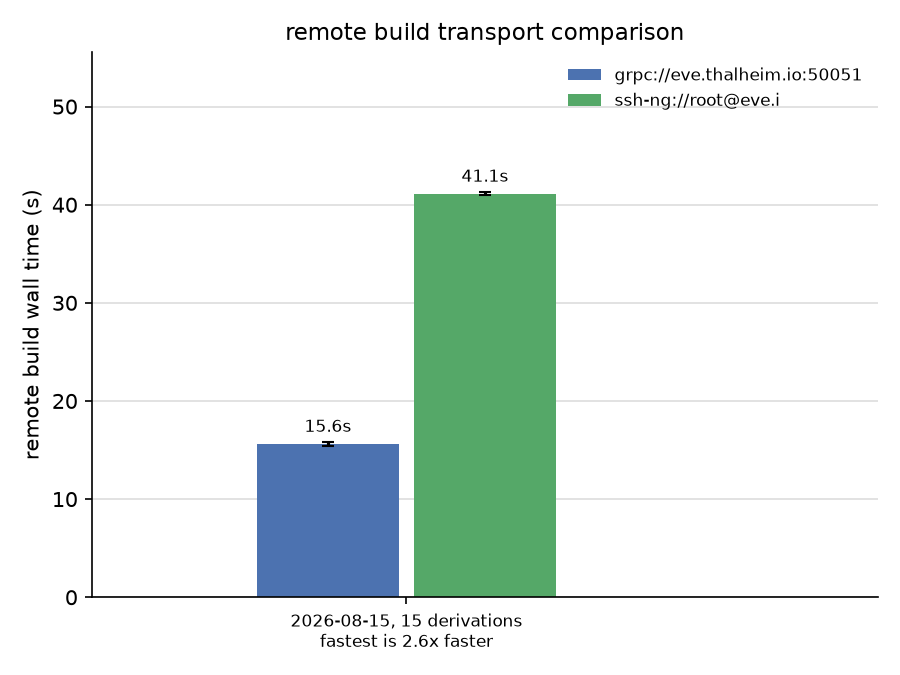
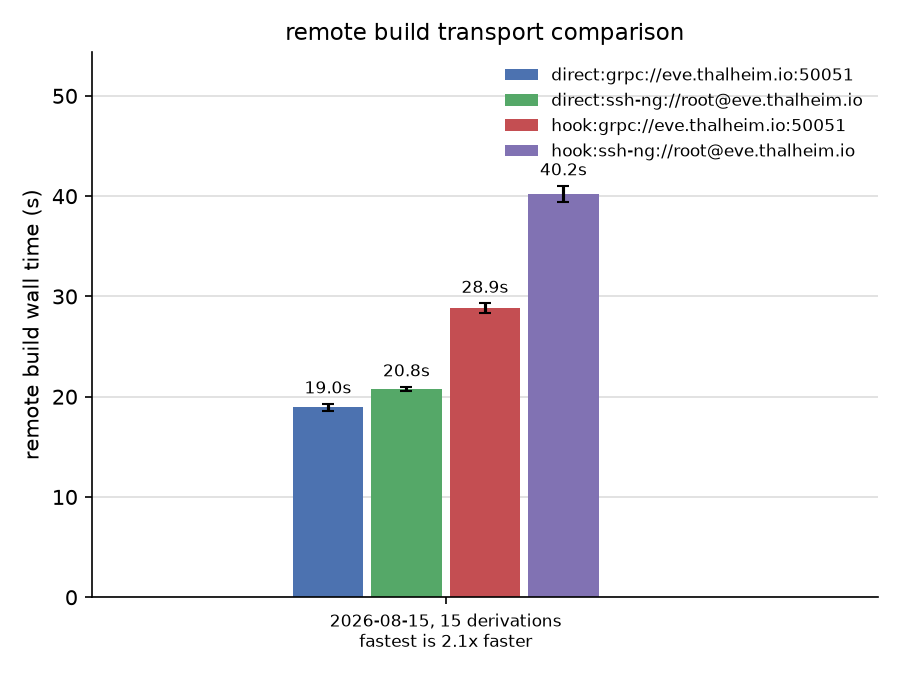
bench-builds: compare hook and direct-store builds
A discrete-event model of the build path showed the per-derivation cost
is dominated by the hook process spawn and its two fresh TLS
connections, not the RPCs. Building against the remote store directly
keeps one connection and no hook, which the model predicts near the
protocol floor. Measured on a 15-drv chain at 47 ms RTT: hook grpc
1.9 s/drv, direct grpc 1.25 s/drv, direct ssh-ng 1.38 s/drv, hook
ssh-ng 2.7 s/drv.

Changed region(s): [[0.0622, 0.0933, 0.9644, 0.9644], [0.0622, 0.56, 0.0933, 0.6222], [0.0622, 0.1244, 0.0933, 0.1867]]

diff --git a/scripts/bench-builds.py b/scripts/bench-builds.py
@@ -39,52 +39,64 @@ in builtins.head (go length [ ])
 
 
 def bench_once(
-    builder: str, chain: Path, store: Path, salt: str, length: int, system: str
+    target: str, chain: Path, store: Path, salt: str, length: int, system: str
 ) -> float:
+    mode, url = target.split(":", 1)
     if store.exists():
         subprocess.run(["chmod", "-R", "u+w", store], check=True)
         shutil.rmtree(store)
-    t0 = time.monotonic()
-    proc = subprocess.run(
-        [
-            "nix",
-            "build",
-            "-f",
-            str(chain),
-            "--argstr",
-            "salt",
-            salt,
-            "--arg",
-            "length",
-            str(length),
-            "--argstr",
-            "system",
-            system,
+    cmd = [
+        "nix",
+        "build",
+        "-f",
+        str(chain),
+        "--argstr",
+        "salt",
+        salt,
+        "--arg",
+        "length",
+        str(length),
+        "--argstr",
+        "system",
+        system,
+        "--no-link",
+        "--substituters",
+        "",
+        "--option",
+        "substitute",
+        "false",
+    ]
+    if mode == "hook":
+        cmd += [
             "--store",
             str(store),
-            "--no-link",
             "--max-jobs",
             "0",
-            "--substituters",
-            "",
-            "--option",
-            "substitute",
-            "false",
             "--builders",
-            f"{builder} {system} - 1 1",
-        ],
+            f"{url} {system} - 1 1",
+        ]
+    else:
+        cmd += ["--store", url]
+    t0 = time.monotonic()
+    proc = subprocess.run(
+        cmd,
         check=False,
         capture_output=True,
         text=True,
     )
     if proc.returncode != 0:
-        raise RuntimeError(f"nix build via {builder} failed:\n{proc.stderr}")
+        raise RuntimeError(f"nix build via {target} failed:\n{proc.stderr}")
     return time.monotonic() - t0
 
 
 def main() -> None:
     parser = argparse.ArgumentParser(description=__doc__)
-    parser.add_argument("--builder", action="append", required=True, help="repeatable")
+    parser.add_argument(
+        "--builder", action="append", default=[], help="build-hook builder, repeatable"
+    )
+    parser.add_argument(
+        "--direct", action="append", default=[], help="remote store url, repeatable"
+    )
     parser.add_argument("--length", type=int, default=15, help="chain length")
     parser.add_argument("--runs", type=int, default=5)
     parser.add_argument("--warmup", type=int, default=1)
@@ -104,13 +116,15 @@ def main() -> None:
     def describe(dt: float) -> str:
         return f"{dt / args.length * 1000:5.0f} ms/drv"
 
-    def once(builder: str, i: int) -> float:
-        salt = f"{stamp}r{i}t{args.builder.index(builder)}"
-        return bench_once(builder, chain, store, salt, args.length, args.system)
+    targets = [f"hook:{b}" for b in args.builder] + [f"direct:{s}" for s in args.direct]
+    if not targets:
+        parser.error("need at least one --builder or --direct")
 
-    results = benchlib.interleaved_runs(
-        args.builder, once, args.runs, args.warmup, describe
-    )
+    def once(target: str, i: int) -> float:
+        salt = f"{stamp}r{i}t{targets.index(target)}"
+        return bench_once(target, chain, store, salt, args.length, args.system)
+
+    results = benchlib.interleaved_runs(targets, once, args.runs, args.warmup, describe)
     benchlib.print_summary(results, describe)
     benchlib.append_history(args.output, {"length": args.length, "runs": results})
 

diff --git a/README.md b/README.md
@@ -47,8 +47,11 @@ Reproduce with `./scripts/bench-transports.py`.
 
 Remote builds skip the tunnelled worker protocol too: one streaming RPC
 submits the derivation and returns the result with its output path
-infos, so a chain of tiny builds over a ~50 ms WAN link runs 2.6x
-faster than `ssh-ng://`:
+infos, so a chain of tiny builds over a ~50 ms WAN link runs 1.4x
+faster than `ssh-ng://` through the build hook (`builders =`). Using
+the remote store directly (`nix build --store 'grpc://…'`) avoids the
+per-derivation hook process and its two fresh TLS connections, which is
+worth another 1.5x — 2.1x over an ssh-ng hook setup:
 
 ![remote build transport comparison](docs/bench-builds.png)
 
